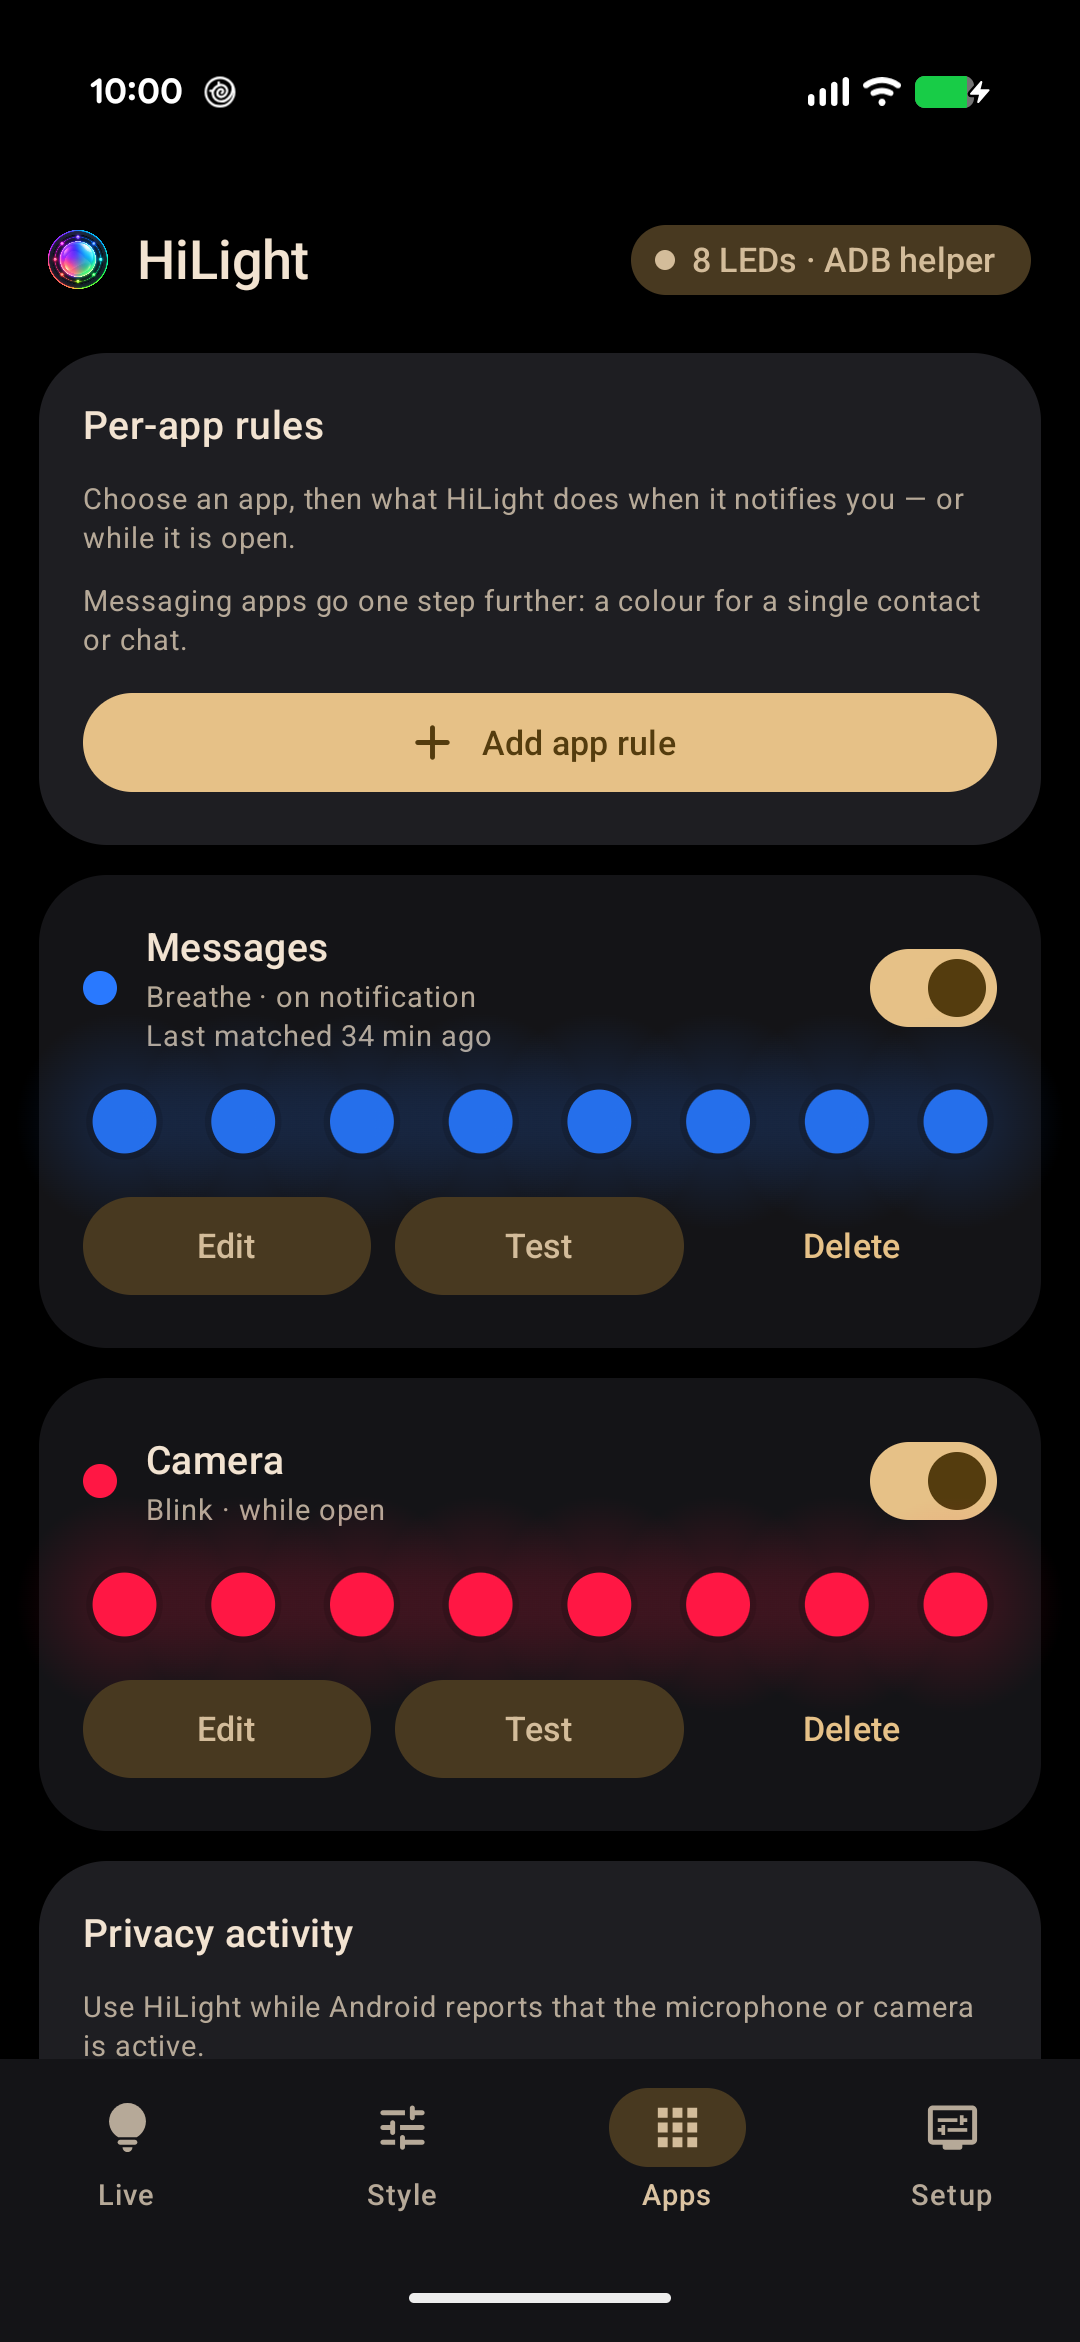
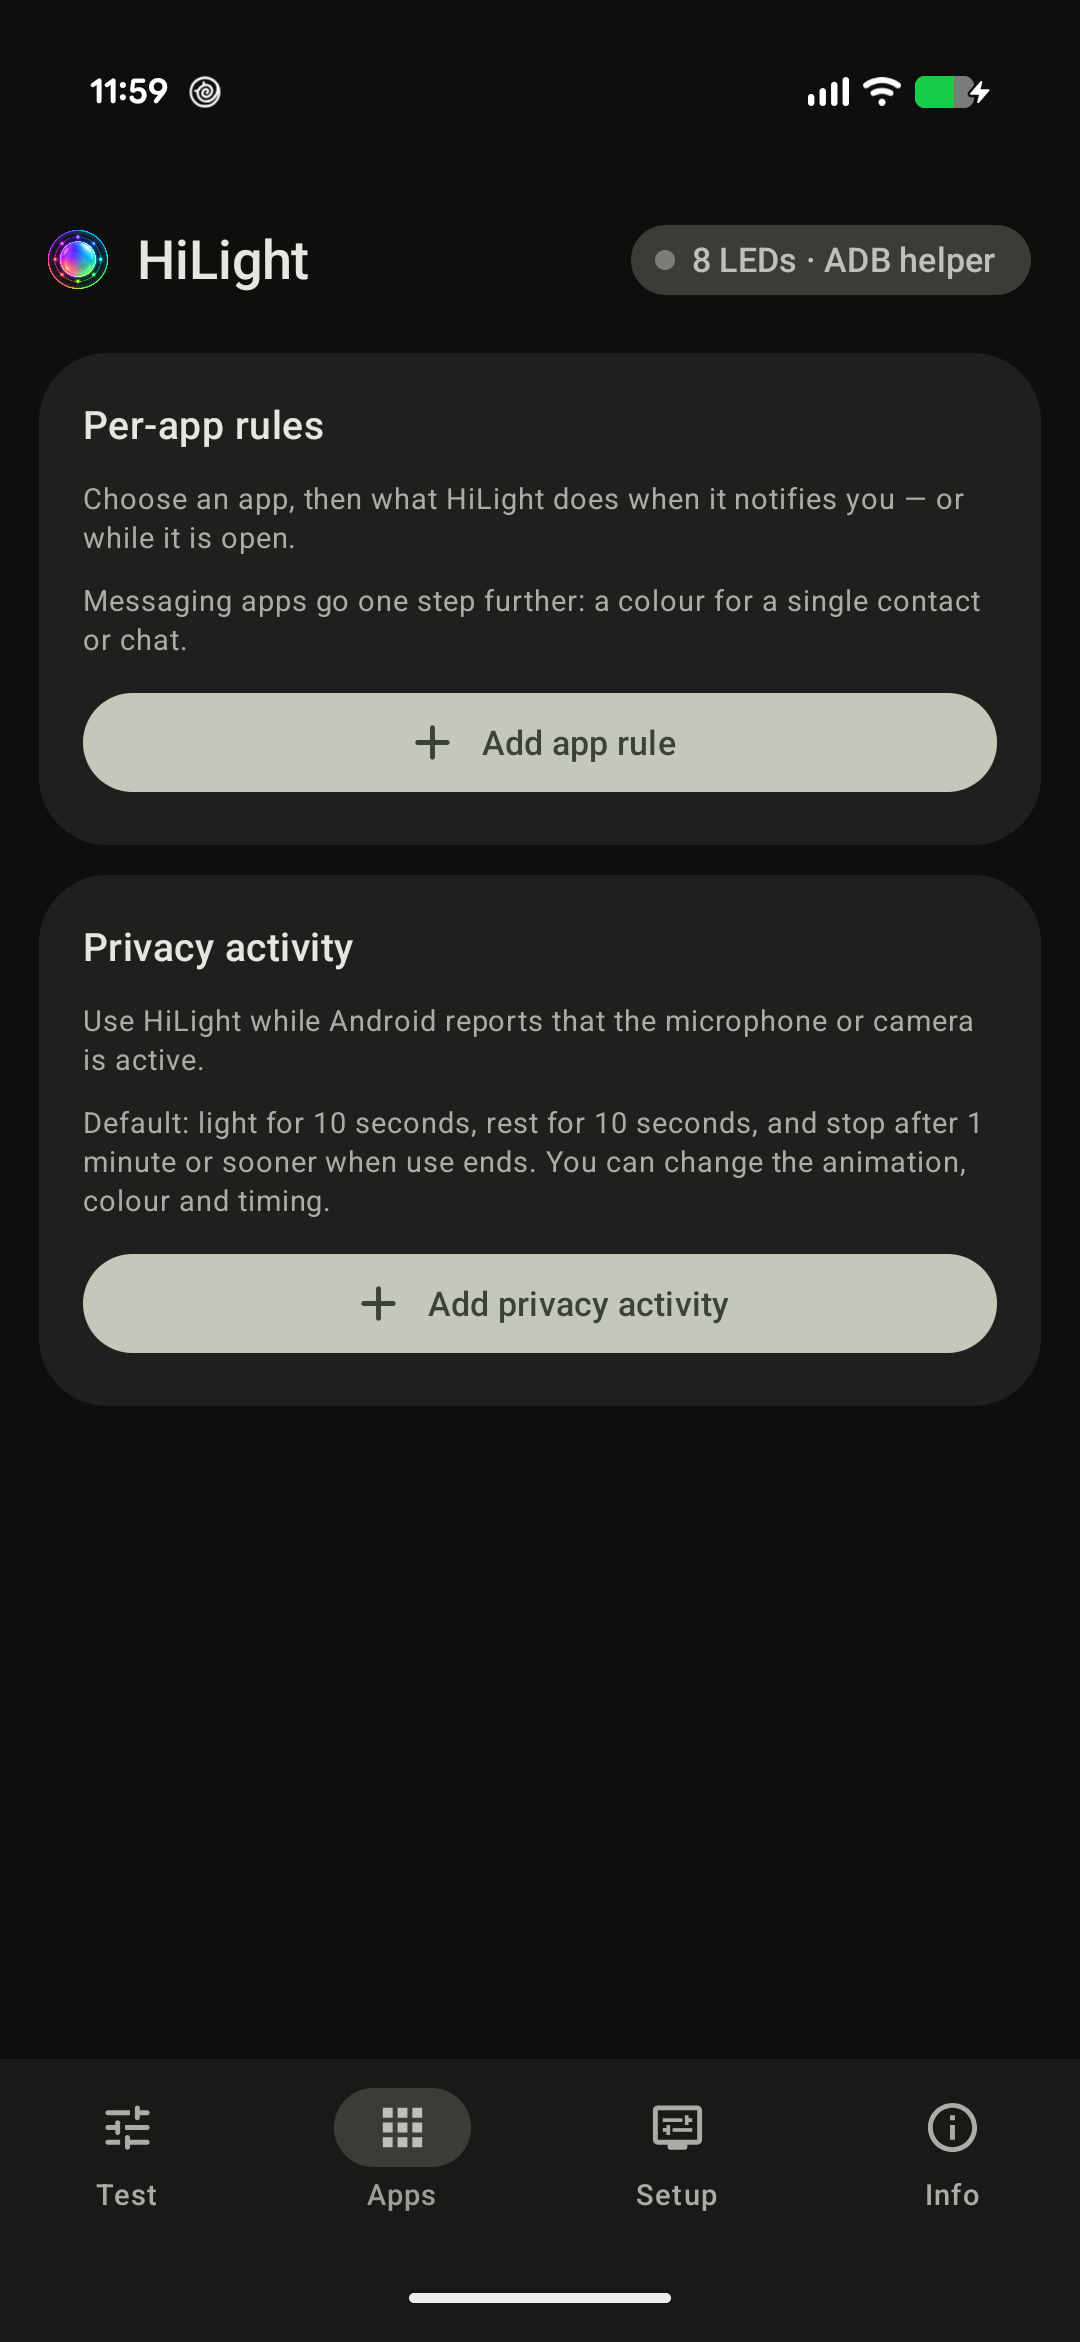
docs: update device screenshots and README for V3.5 release

diff --git a/README.md b/README.md
@@ -19,39 +19,39 @@
 > **Hilight-Studio-PlusPlusV3.5** is an open-source enhancement supporting all devices across the **Pixel 11 Pro line** (Pixel 11 Pro, Pixel 11 Pro XL, and Pixel 11 Pro Fold) on Android 17 (API 37).
 
 <p align="center">
-  <img src="docs/media/screen-live.png" alt="Live tab controlling the HiLight array on a Pixel 11 Pro Fold" width="380">
+  <img src="docs/media/screen-test.png" alt="Test tab controlling the HiLight array on a Pixel 11 Pro Fold" width="380">
 </p>
 
 ## Features
 
+- **Unified Clean UI (V3.5 Navigation)**:
+  - **Test Tab**: Combines real-time effects preview, master switch, 12 signature presets/effects, 3-color pattern tuning, individual 8-LED customizations, Tabletop lighting tools (SOS Beacon, Video Fill Light, Fuel Gauge), and instant Notification Tests.
+  - **Apps Tab**: Configure per-app notification colors, keyword triggers, and While-Open indefinite/custom-timer holds.
+  - **Setup Tab**: Background status notification toggle, auto-off protection, Max Brightness Override, Session Priority slider, and Root / Shizuku / ADB access controls.
+  - **Info Tab**: AI disclosures, MIT open source license, diagnostic peek inspector, and direct links to original creator and fork source repositories.
+- **Enhanced "While Open" Controls**:
+  - Optional **Stay Lit Indefinitely** toggle (with safety confirmation dialog) or customizable timer slider from 5 seconds up to **5 minutes**.
+- **Max Brightness Override**:
+  - 1-click header switch to bypass continuous dimming tapers and force 100% luminance across all 8 LEDs.
 - **Material 3 Theming Engine**:
-  - **Theme Modes**: System Follow, Light, Dark, and AMOLED Pitch Black (pure `#000000` power-saving mode for OLED and foldable screens)
-  - **Material 3 Palettes**: Dynamic Material You (wallpaper colors), Pixel Indigo, Ocean Blue, Emerald Green, Coral Peach, Amber Gold, Berry Rose, and Monochrome
+  - **Theme Modes**: System Follow, Light, Dark, and AMOLED Pitch Black (pure `#000000` power-saving mode for OLED and foldable screens).
+  - **Material 3 Palettes**: Dynamic Material You (wallpaper colors), Pixel Indigo, Ocean Blue, Emerald Green, Coral Peach, Amber Gold, Berry Rose, and Monochrome.
 - **Foldable Adaptive Dual-Pane Layout**:
   - Automatically switches between single-column navigation and dual-pane side `NavigationRail` with persistent real-time 8-LED `DeviceHero` when unfolded on the Pixel 11 Pro Fold inner screen (`>= 600dp`).
-- **Tabletop Video Fill Light & Emergency Strobe Beacon**:
+- **Tabletop Video Fill Light & Emergency SOS Beacon**:
   - Tuned continuous lighting for video calls, selfies, and tabletop shooting with color temperature presets: Warm (2700K), Soft (3800K), Neutral (4500K), and Cool (6500K).
-  - High-visibility emergency beacon and SOS strobe modes.
+  - High-visibility emergency SOS beacon.
 - **8-LED Battery & Charging Fuel Gauge**:
   - Visual battery level indicator that lights LEDs proportionally (1–8) and breathes green when plugged in or charging.
-- **Signature Curated Presets Pack**:
-  - Built-in one-tap lighting themes: *Aurora Borealis*, *Cyberpunk Neon*, *Campfire Ember*, *Deep Ocean*, *Pixel Spectrum*, and *Matrix Pulse*.
 - **Desktop GUI Control Manager (`HiLight-Control.exe`)**:
   - Native Windows desktop application with 3 one-click actions:
     1. *Full Easy Install & Flash*: Automatically installs/updates APK, launches the app, and starts the 8-LED renderer.
     2. *Start HiLight (Post-Reboot)*: Restarts the background ADB daemon in 1 click after phone reboot.
     3. *Stop / Kill ADB Session*: Cleanly terminates the background renderer and frees hardware lights control.
-    4. *Live Device Status*: Real-time connection badge (Pixel 11 Pro Fold) and integrated console log output.
-- Solid colours and animated patterns across all eight LEDs on Pixel 11 Pro, Pixel 11 Pro XL, and Pixel 11 Pro Fold
-- Per-app rules for foreground use and notifications
-- Customisable microphone and camera activity rules, with any built-in animation and colour, for any app or one selected app
-- Per-contact rules: a colour for one person or one chat, picked from the chats HiLight has seen
-- Saved presets with import and export
-- Wallpaper-derived colours and a Quick Settings tile
-- Quiet hours, Do Not Disturb, Battery Saver, and low-battery controls
-- English and Japanese, selectable per app from Android's own language settings
-- Automatic root access when available, with Shizuku and ADB as fallbacks
-- Manual update checks against GitHub releases
+    4. *Live Device Status*: Real-time connection badge and integrated console log output.
+- **Hardware & Lifecycle Safety Guards**:
+  - Honors Android's "Pause app" and Digital Wellbeing timers, stopping background activity when suspended.
+  - `START_NOT_STICKY` service behavior ensures clean force-stops via Android Settings without unwanted respawns.
 
 ## Screenshots
 
@@ -59,21 +59,23 @@
 
 <table>
 <tr>
-<td width="33%"><img src="docs/media/screen-style.png" alt="Style tab with presets, patterns, and colour controls"></td>
-<td width="33%"><img src="docs/media/screen-apps.png" alt="Apps tab with per-app rules"></td>
-<td width="33%"><img src="docs/media/screen-setup.png" alt="Setup tab with access and safety controls"></td>
+<td width="25%"><img src="docs/media/screen-test.png" alt="Test tab with effects, presets, and live controls"></td>
+<td width="25%"><img src="docs/media/screen-apps.png" alt="Apps tab with per-app and notification rules"></td>
+<td width="25%"><img src="docs/media/screen-setup.png" alt="Setup tab with access and safety controls"></td>
+<td width="25%"><img src="docs/media/screen-info.png" alt="Info tab with disclosures and diagnostics"></td>
 </tr>
 <tr>
-<td align="center"><sub><b>Style &amp; Signature Presets</b></sub></td>
-<td align="center"><sub><b>Apps &amp; Notification Rules</b></sub></td>
-<td align="center"><sub><b>Setup &amp; Safety Controls</b></sub></td>
+<td align="center"><sub><b>1. Test &amp; Effects</b></sub></td>
+<td align="center"><sub><b>2. Apps &amp; Triggers</b></sub></td>
+<td align="center"><sub><b>3. Setup &amp; Safety</b></sub></td>
+<td align="center"><sub><b>4. Info &amp; Disclosures</b></sub></td>
 </tr>
 </table>
 
 ### 🖥 Windows Desktop Control Manager (`HiLight-Control.exe`)
 
 <p align="center">
-  <img src="docs/media/screen-desktop-manager.png" alt="hilight-studio-plusplus Windows Desktop Control Manager" width="850">
+  <img src="docs/media/screen-desktop-manager.png" alt="Hilight-Studio-PlusPlus Windows Desktop Control Manager" width="850">
 </p>
 
 ## 🖥 Desktop Companion Suite (`HiLight-Control.exe`)
@@ -91,12 +93,10 @@
   - **Explicit User Consent**: If ADB is not found, provides an interactive opt-in dialog to download official Google platform-tools directly from `dl.google.com`, or select an existing `adb.exe` manually.
 - **📐 High-DPI Adaptive Geometry & Resizable Windows**:
   - Built with dynamic `SizeType.AutoSize` architecture that looks crisp and legible on all monitor scaling factors (100%, 125%, 150%, 175%, 4K).
-  - All sub-menus (ADB Setup, MIT License, A.I. Disclosure, Request Log) are fully resizable and maximizable.
 - **📝 Text Editor & Notepad Integration**:
-  - Every informational dialog features **`📝 Open in Text Editor`** (opens in your default system editor) and **`📄 Open in Notepad`** buttons for instant viewing and editing.
+  - Every informational dialog features **`📝 Open in Text Editor`** and **`📄 Open in Notepad`** buttons for instant viewing and editing.
 - **📜 Live Output Console**:
   - Real-time scrolling terminal output stream with timestamped execution feedback and a 1-click **`🗑 Clear Console`** action.
-
 
 ## Build & Install on Google Pixel 11 Pro Series
 
@@ -128,7 +128,7 @@ adb uninstall com.hilight.studio
 adb install -r app/build/outputs/apk/debug/app-debug.apk
 ```
 
-hilight-studio-plusplus needs privileged access to the Android lights service. Choose one of the privilege methods below:
+Hilight-Studio-PlusPlus needs privileged access to the Android lights service. Choose one of the privilege methods below:
 
 ### Root
 
@@ -166,32 +166,13 @@ adb shell "CLASSPATH=$(pm path com.hilight.studio | head -1 | cut -d: -f2) nohup
 
 Keep the two commands separate. The `pkill -f` pattern can match the shell that starts the helper if both operations are merged.
 
-Command Prompt passes the pipe, parentheses, redirects, and `$()` through inside the double quotes. The phone resolves the installed app path.
-
 Check the helper log:
 
 ```bash
 adb shell cat /data/local/tmp/hilight.log
 ```
 
-A successful start reports `connected: 8 HiLight LEDs`. An empty log usually means the command was quoted for the wrong shell.
-
-### If the app connects but the LEDs stay dark
-
-Only one renderer can drive the array. A leftover renderer can keep sending black while the app still reports a connection.
-
-Count active sessions:
-
-```bash
-adb shell dumpsys lights | grep -c "Session token="
-```
-
-There should be exactly one. If there are more, run the reset command and then the start command again.
-
-After setup, grant **Notification access** for notification rules and **Usage access** for
-foreground-app rules. Privacy activity rules observe Android's active microphone or camera state in
-the privileged renderer and do not need either permission. Turn on **Live**, then choose a look in
-**Style**. A new installation starts with its always-on style set to **Off**.
+A successful start reports `connected: 8 HiLight LEDs`.
 
 ## Safety limits
 
@@ -199,62 +180,18 @@ The renderer enforces these limits even if app state is edited:
 
 - Ambient effects stop after 30 seconds by default and can be raised to 5 minutes.
 - Notification effects are limited to 1 minute.
-- Privacy activity rules run only while the microphone or camera remains active. Their default rhythm
-  is 10 seconds on, 10 seconds off, with a 1-minute maximum per continuous use.
-- Sustained brightness tapers after 10 seconds of continuous light.
+- Privacy activity rules run only while the microphone or camera remains active.
+- Sustained brightness tapers after 10 seconds of continuous light (can be overridden via Max Brightness Override).
 - The array can be active for at most half of any 10-minute window.
 - Battery Saver, low-battery, quiet-hours, screen-state, and Do Not Disturb rules can pause output.
 
-Long, continuous use of the HiLight LEDs has not been tested. If you build the project yourself, you can change the timing and safety values in your copy. Custom builds are your responsibility.
-
-See [Technical details](docs/TECHNICAL.md) for the renderer architecture, hardware findings, device verification, and known limits.
-
 ## Privacy
 
-HiLight Studio has no analytics, account system, or telemetry. It uses the internet only when you
-tap **Check for updates** under Setup, which fetches public release information from GitHub. No app
-rules, notification data, or settings are sent. App rules and presets stay on the device.
-Notification and usage access are optional and are used locally for the rules you enable. Privacy
-activity rules observe only whether Android reports the microphone or camera as active; HiLight never
-reads or records audio, video, or their contents.
+HiLight Studio has no analytics, account system, or telemetry. It operates entirely offline on your device. No app rules, notification data, or settings are ever transmitted over the network.
+Notification and usage access are optional and are used strictly locally for the rules you enable. Privacy activity rules observe only whether Android reports the microphone or camera as active; HiLight never reads or records audio, video, or their contents.
 
-Per-contact rules read the sender's name from the notification itself, so they need no contacts permission — picking a contact by hand uses the system picker, which hands over only the row you tap. HiLight remembers the names of chats it has seen so the picker needs no typing; that list is stored on the device, is capped, and can be cleared at any time with **Forget remembered chats** under Setup. Message text is never stored, never logged, and never included in anything the notification inspector copies or shares.
-
-## Build from source
-
-Requirements:
-
-- JDK 21
-- Android SDK platform 37.0
-- Android Studio or a command-line Android SDK installation
-
-```bash
-git clone https://github.com/DhananjayBhosale/hilight-studio.git
-cd hilight-studio
-./gradlew :app:testDebugUnitTest :app:build :app:lint
-```
-
-Build an installable developer APK with:
-
-```bash
-./gradlew :app:assembleDebug
-```
-
-The APK is written under `app/build/outputs/apk/debug/`. You may fork the repository, change the source, and build your own version under the terms of the MIT License.
-
-## Contributing
-
-Issues and pull requests are welcome. Hardware reports should include the Pixel model, Android build, renderer transport, and exact steps to reproduce. Do not include notification contents or other personal data.
-
-Read [Contributing](CONTRIBUTING.md) before opening a pull request. Security issues must follow the private process in [Security policy](SECURITY.md).
-
-## Project documents
-
-- [Changelog](CHANGELOG.md)
-- [Technical details](docs/TECHNICAL.md)
-- [Release process](docs/RELEASING.md)
-- [Code of Conduct](CODE_OF_CONDUCT.md)
+Message text is never stored, never logged, and never included in anything the notification inspector copies or shares.
 
 ## License
 
-[MIT](LICENSE). You may use, modify, redistribute, and sell the project. Redistributed copies must retain the license notice.
+This project is licensed under the MIT License — see the [LICENSE](LICENSE) file for details.
